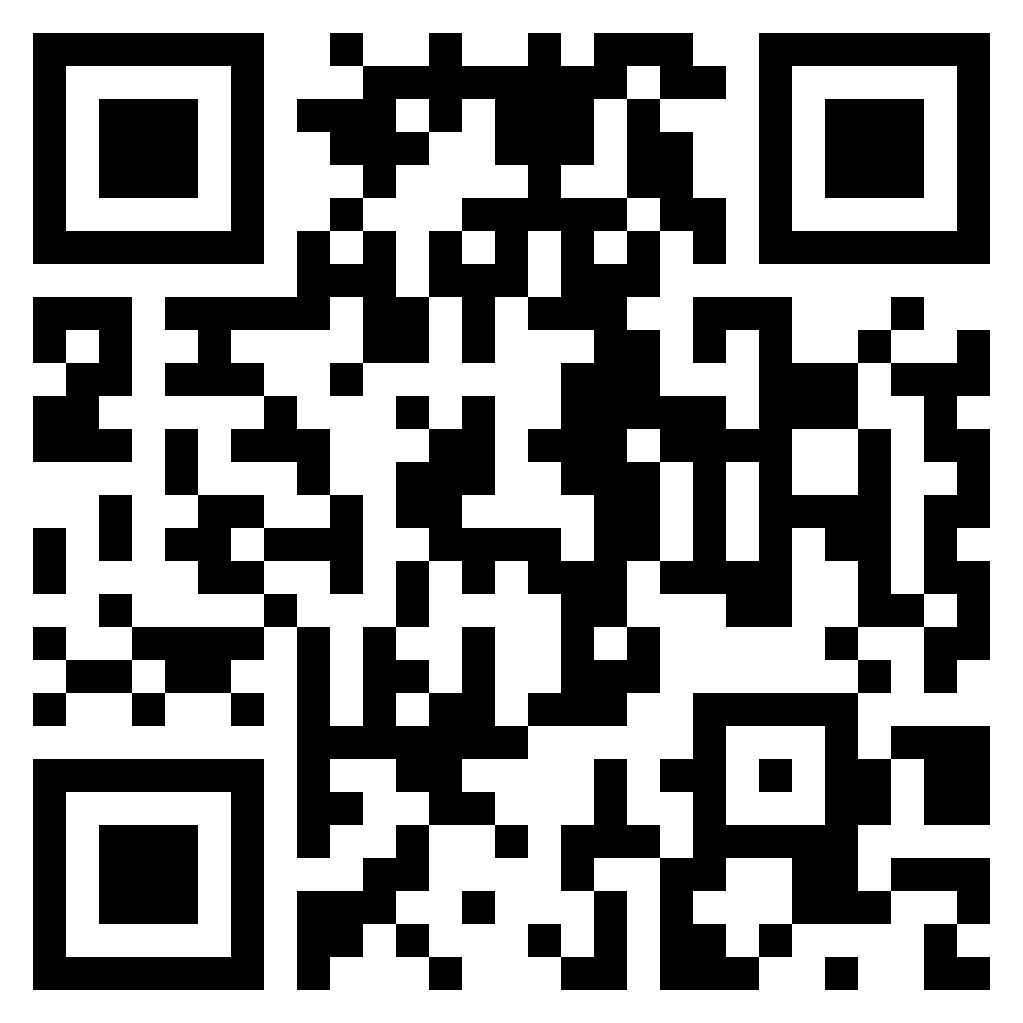
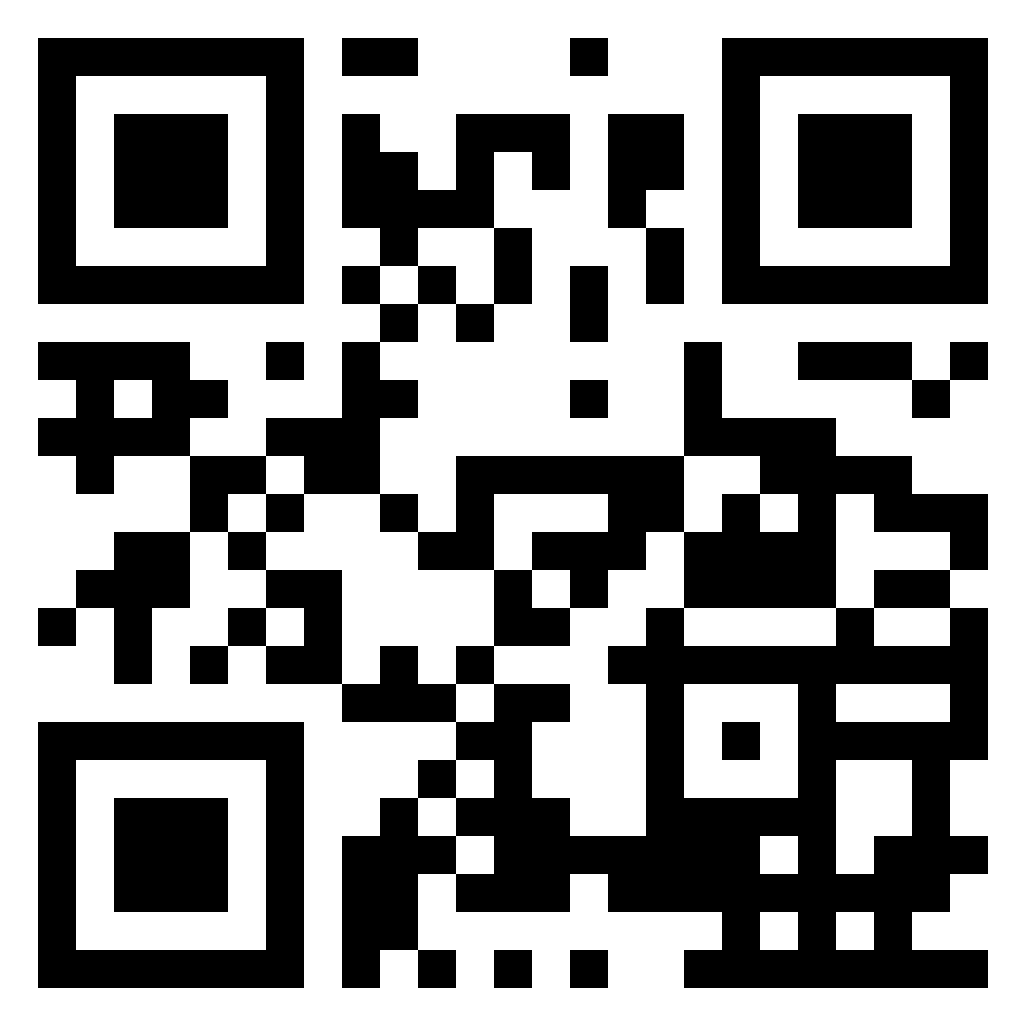
New QR

diff --git a/application/controllers/Admin.php b/application/controllers/Admin.php
@@ -4867,8 +4867,10 @@ With good wishes";
 				'parent' => $data['admissionDetails']->father_name
 			);
 			if ($data['admissionDetails']->gender == "Male") {
+				$salut="S/O. ";
 				$pdf->AddNameDetailsTableM($details);
 			} else {
+				$salut="D/O. ";
 				$pdf->AddNameDetailsTableF($details);
 			}
 
@@ -4961,7 +4963,7 @@ With good wishes";
 			$masked_email = $masked_username . '@' . $domain;
 
 			// Mask phone number
-			$masked_phone = str_repeat('*', strlen($data['admissionDetails']->mobile) - 2) . substr($data['admissionDetails']->mobile, -2);
+			$masked_phone = str_repeat('*', strlen($data['admissionDetails']->mobile) - 4) . substr($data['admissionDetails']->mobile, -4);
 			$pdf->AddPage();
 			$pdf->Image('assets/img/qr.png', 80, 20, 50); // Adjust x, y, and size as needed
 			$pdf->SetY(70);
@@ -4973,7 +4975,7 @@ With good wishes";
 			$pdf->Cell(0, 5, "No.MCE/" . $this->admin_model->get_dept_by_id($data['admissionDetails']->dept_id)["department_short_name"] . "/" . $data['admissionDetails']->adm_no, 0, 1, 'L');
 			$pdf->Ln(3);
 			$pdf->SetFont('Arial', 'B', 10);
-			$pdf->Cell(0, 5, $data['admissionDetails']->student_name." ".$data['admissionDetails']->father_name, 0, 1, 'L');
+			$pdf->Cell(0, 5, $data['admissionDetails']->student_name.", ".$salut." ".$data['admissionDetails']->father_name, 0, 1, 'L');
 			$pdf->Ln(3);
 			// $pdf->SetFont('Arial', 'B', 10);
 			// $pdf->Cell(0, 5, "Portal Login Credentials,", 0, 1, 'L');
@@ -4999,7 +5001,7 @@ With good wishes";
 			$pdf->SetFont('Arial', 'B', 10); // Bold font
 			$pdf->Cell($passwordWidth, 4, "Temporary Password :\t", 0, 0, 'L'); // Bold text "Temporary Password : "
 			$pdf->SetFont('Arial', '', 10); // Normal font
-			$pdf->Cell(0, 4, "\t".$masked_phone, 0, 1, 'L'); // Normal text "masked_phone" on a new line
+			$pdf->Cell(0, 4, "\t\t".$masked_phone, 0, 1, 'L'); // Normal text "masked_phone" on a new line
 
 			$pdf->Ln(5); // Line break
 			$pdf->SetFont('Arial', '', 10);
@@ -5008,6 +5010,7 @@ With good wishes";
 			$pdf->Ln(5);
 
 			$fileName = $data['admissionDetails']->student_name . '-Admit_Letter.pdf';
+			// $pdf->output();
 			$pdf->output($fileName, 'D');
 		} else {
 			redirect('admin/timeout');

diff --git a/application/views/admin/admission_details.php b/application/views/admin/admission_details.php
@@ -17,12 +17,13 @@
                                 <?php $encryptId = base64_encode($admissionDetails->id);
                                 echo anchor('admin/updateadmissiondetails/'.$encryptId, '<i class="fas fa-edit fa-sm fa-fw"></i> Edit ', 'class="btn btn-dark btn-sm"'); ?>
                             </li> -->
-                            <?php if((in_array($role, array(1)))){ ?>
+                            <?php if((in_array($role, array(1)))){ 
+                                if($admissionDetails->quota == "MGMT") {?>
                             <li class="nav-item">
                                 <?php $encryptId = base64_encode($admissionDetails->id);
                                 echo anchor('admin/admissionsletter/'.$encryptId, '<i class="fas fa-download fa-sm fa-fw"></i> Admit Letter ', 'class="btn btn-danger btn-sm"'); ?>
                             </li>
-                            <?php } ?>
+                            <?php } } ?>
                             <li class="nav-item">
                                 <?php echo anchor('admin/admissions', '<i class="fas fa-arrow-left fa-sm fa-fw"></i> Back ', 'class="btn btn-dark btn-sm"'); ?>
                             </li>
